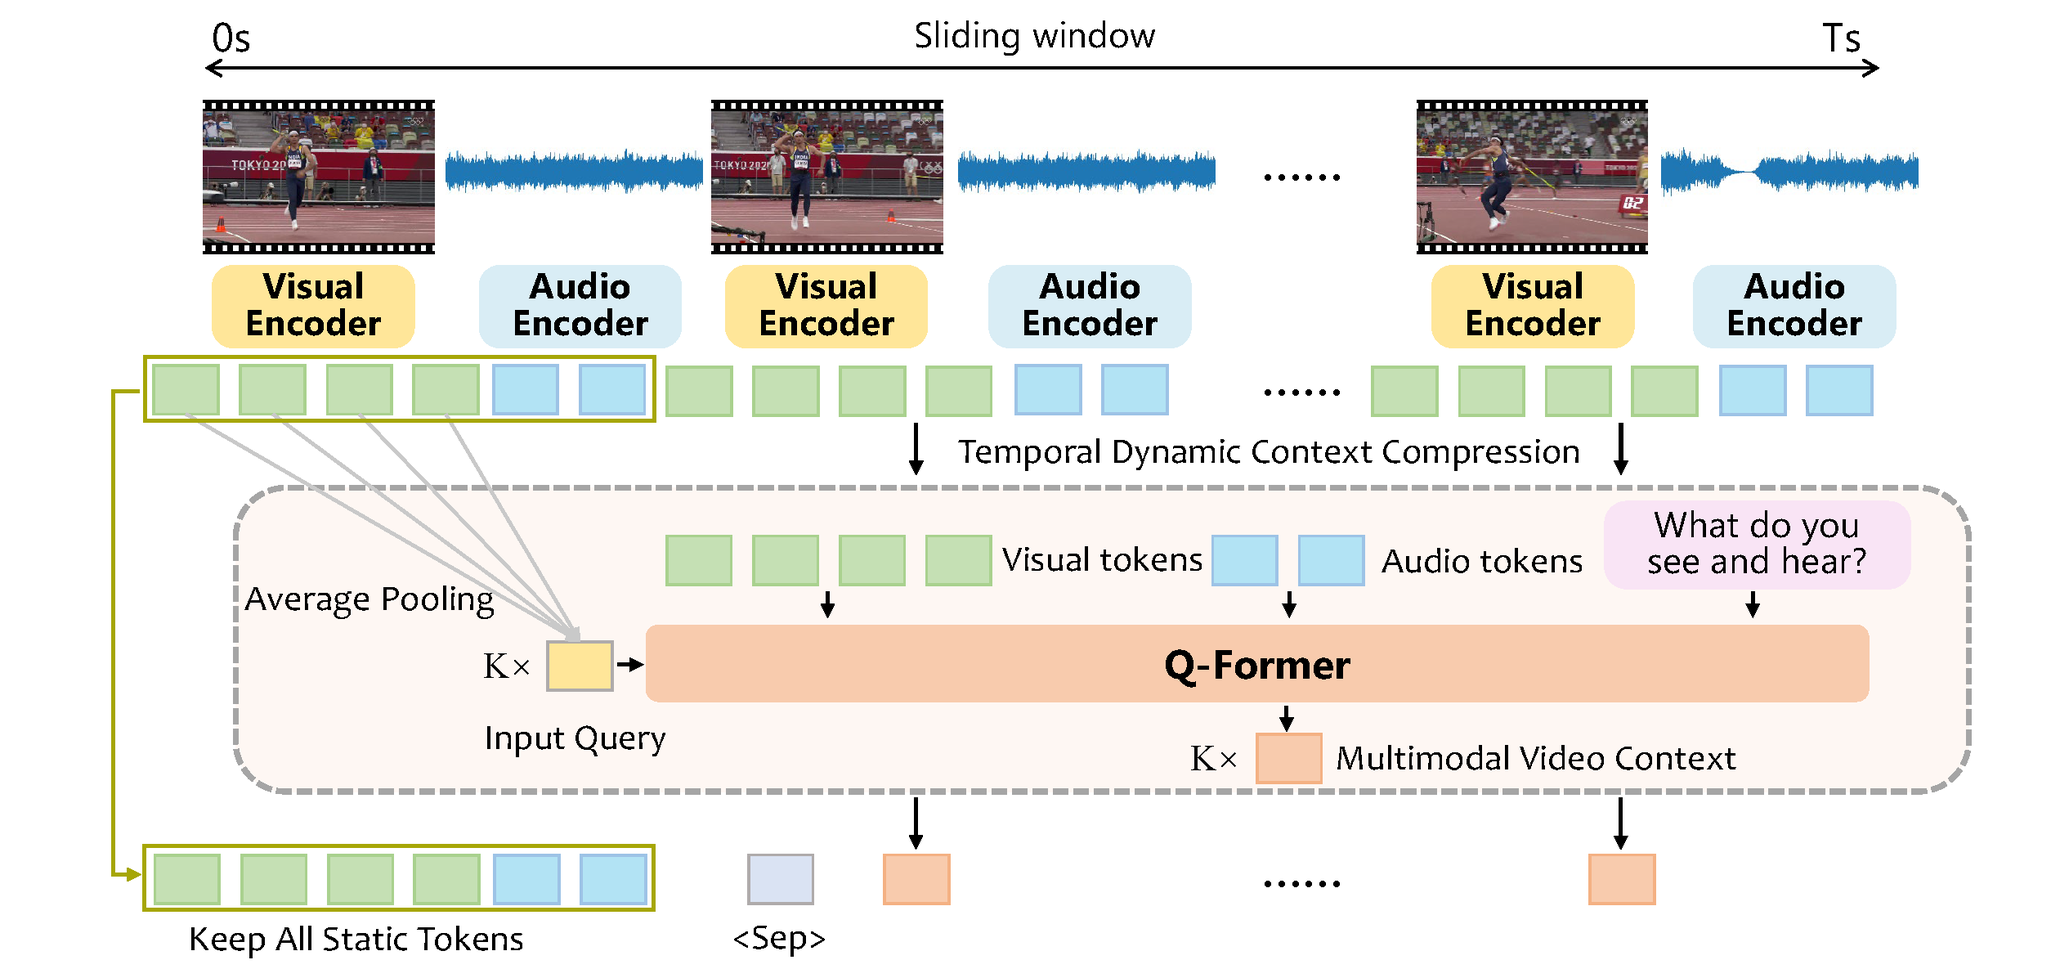
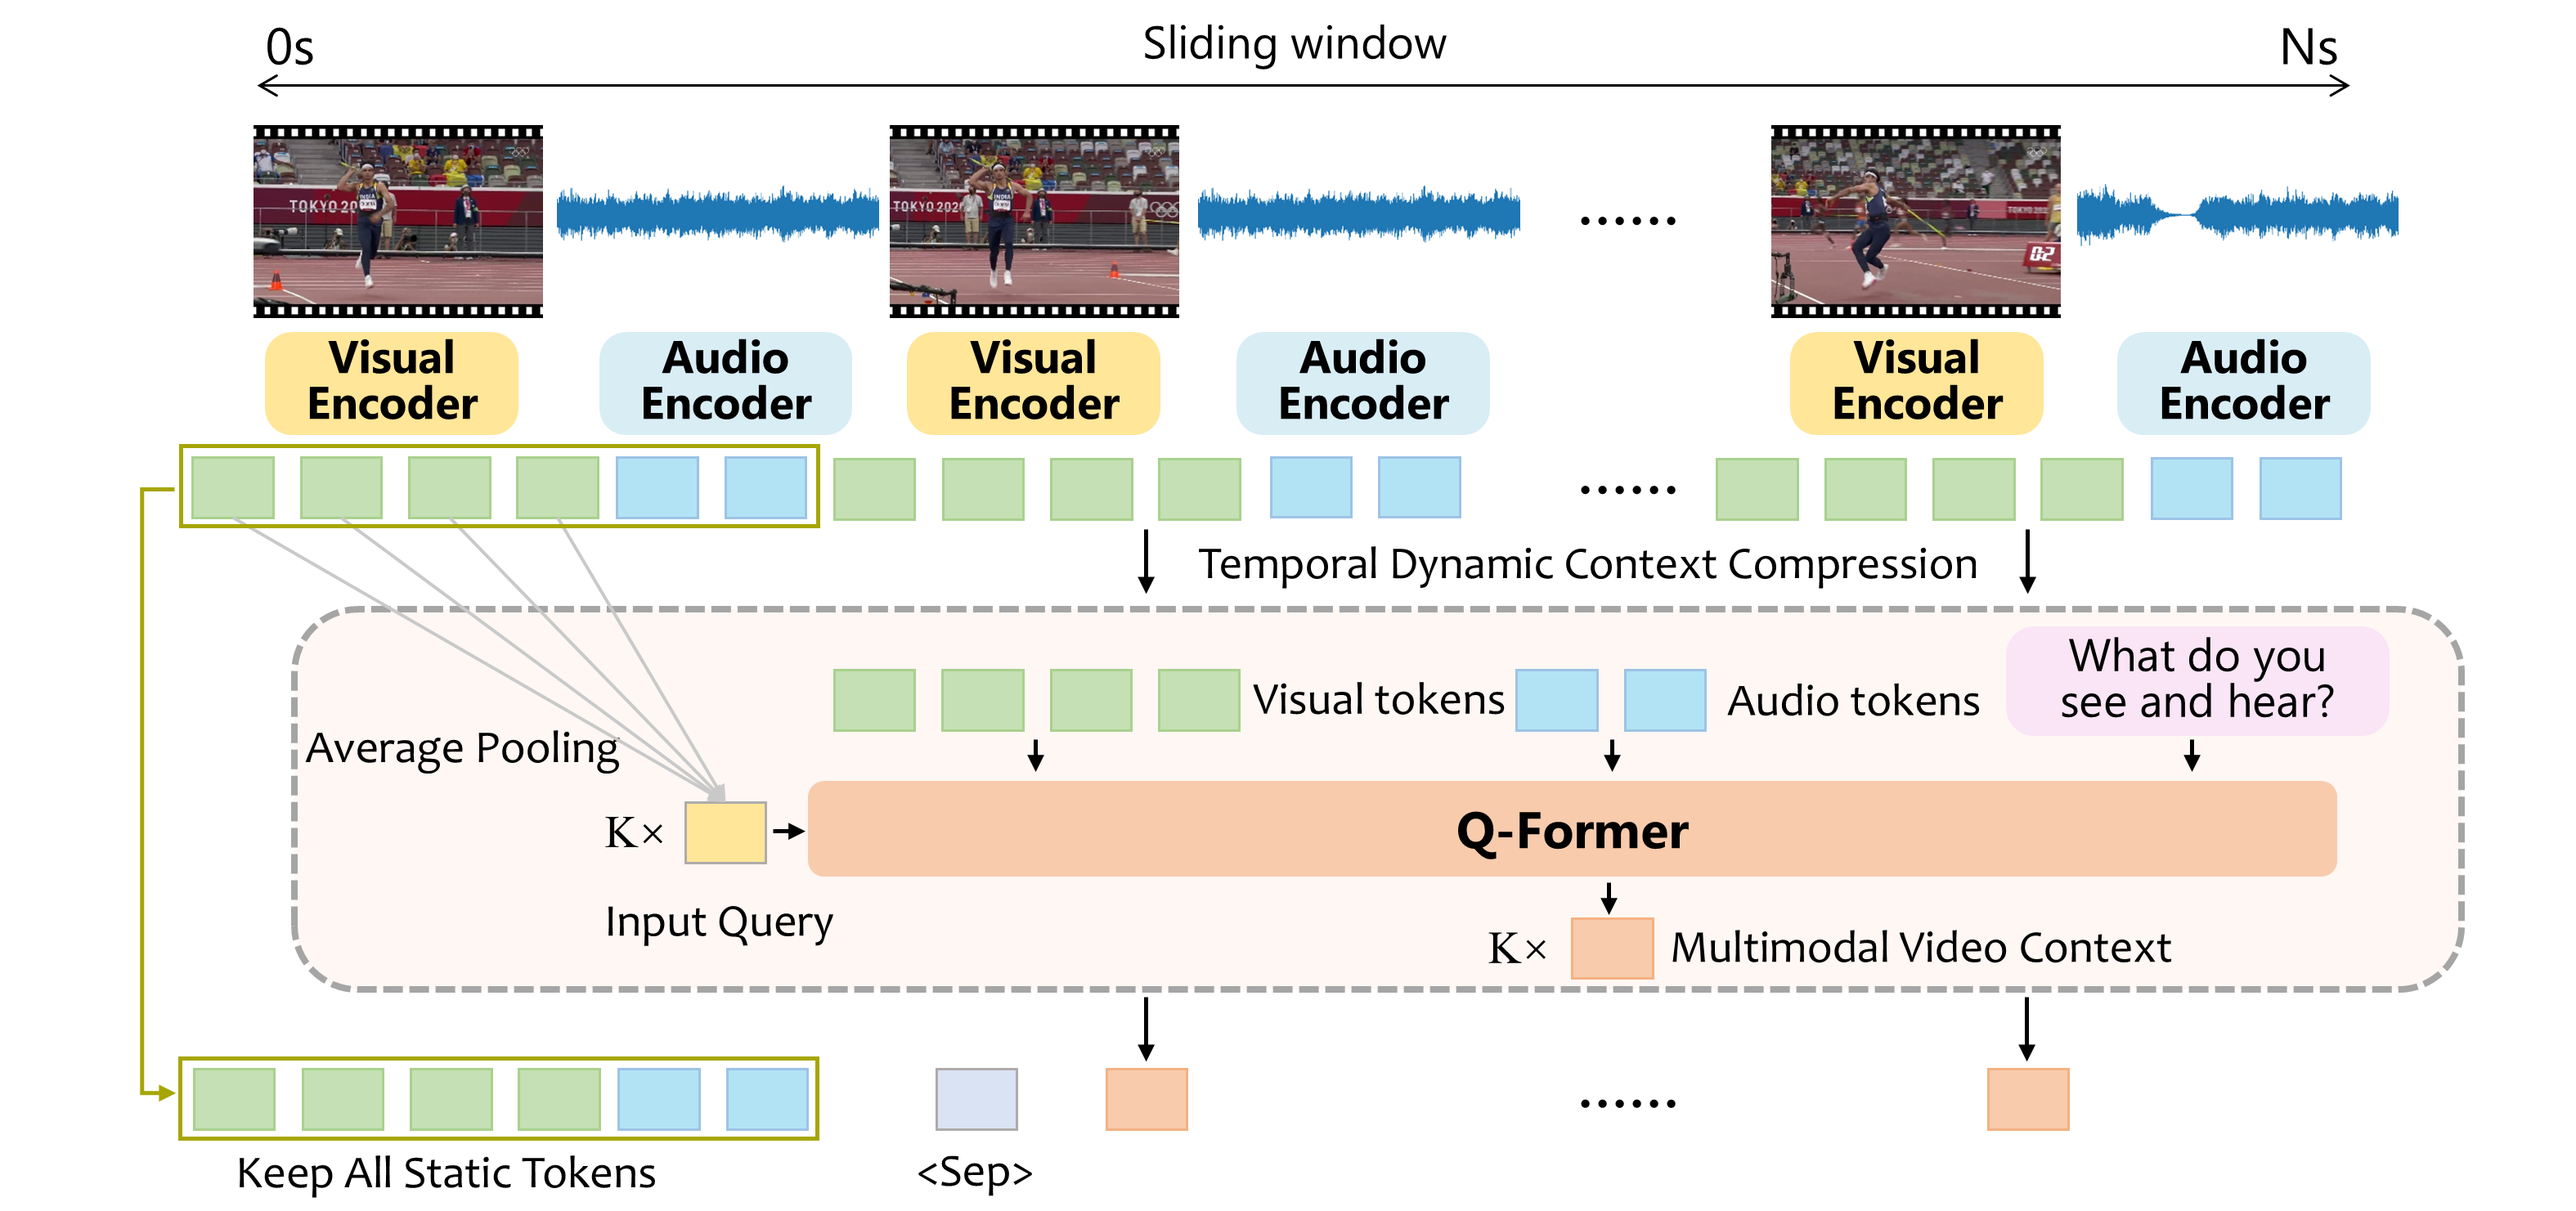
release paper

diff --git a/README.md b/README.md
@@ -1,8 +1,27 @@
-## MM-Video: Multimodal Long Video Modeling
+## Multimodal Long Video Modeling Based on Temporal Dynamic Context
 
+### [Paper](https://arxiv.org/abs/2504.10443) | [Project Page](https://hoar012.github.io/TDC-Project/) | [Model](https://github.com/Hoar012/TDC-Video)
+
+
+## Unified Multimodal Long Video Understanding
 | <img src="./images/teaser.png" alt="MM-Video" width="600"> |
 |:--:|
-## Framework of Temporal Dynamic Context Compression
 
+## Framework of Temporal Dynamic Context Compression
 | ![TDC](./images/framework.png) |
 |:--:|
+| Architecture of Our Multimodal Video Encoder. We first extract features for each second of the video, including both visual and corresponding audio tokens. The first frame is selected as the static frame, and a Q-Former is used to perform Temporal Dynamic Context compression based on its relationship with subsequent frames, resulting in K compressed tokens per frame. The final video representation consists of all static frame tokens and multimodal video context. |
+
+
+## BibTeX
+```
+@misc{hao2025multimodallongvideomodeling,
+        title={Multimodal Long Video Modeling Based on Temporal Dynamic Context}, 
+        author={Haoran Hao and Jiaming Han and Yiyuan Zhang and Xiangyu Yue},
+        year={2025},
+        eprint={2504.10443},
+        archivePrefix={arXiv},
+        primaryClass={cs.CV},
+        url={https://arxiv.org/abs/2504.10443}, 
+  }
+```
